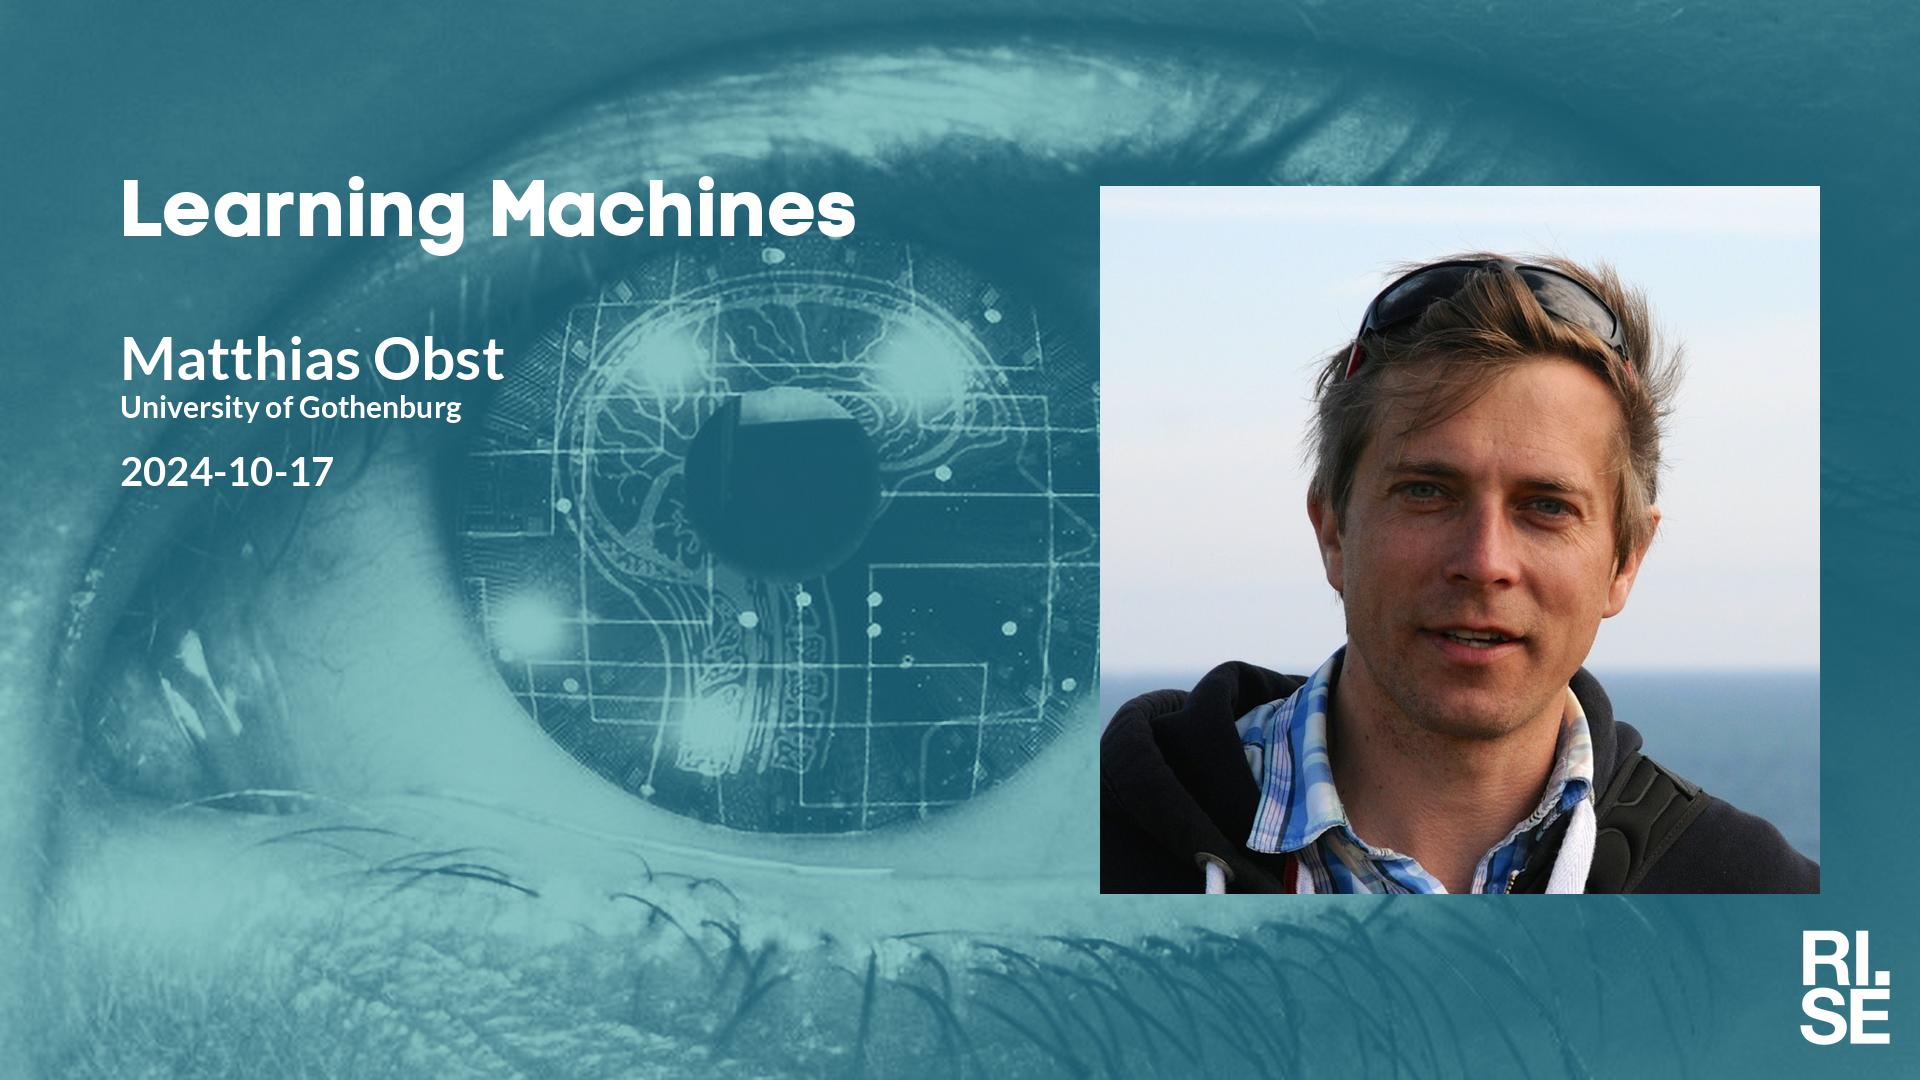
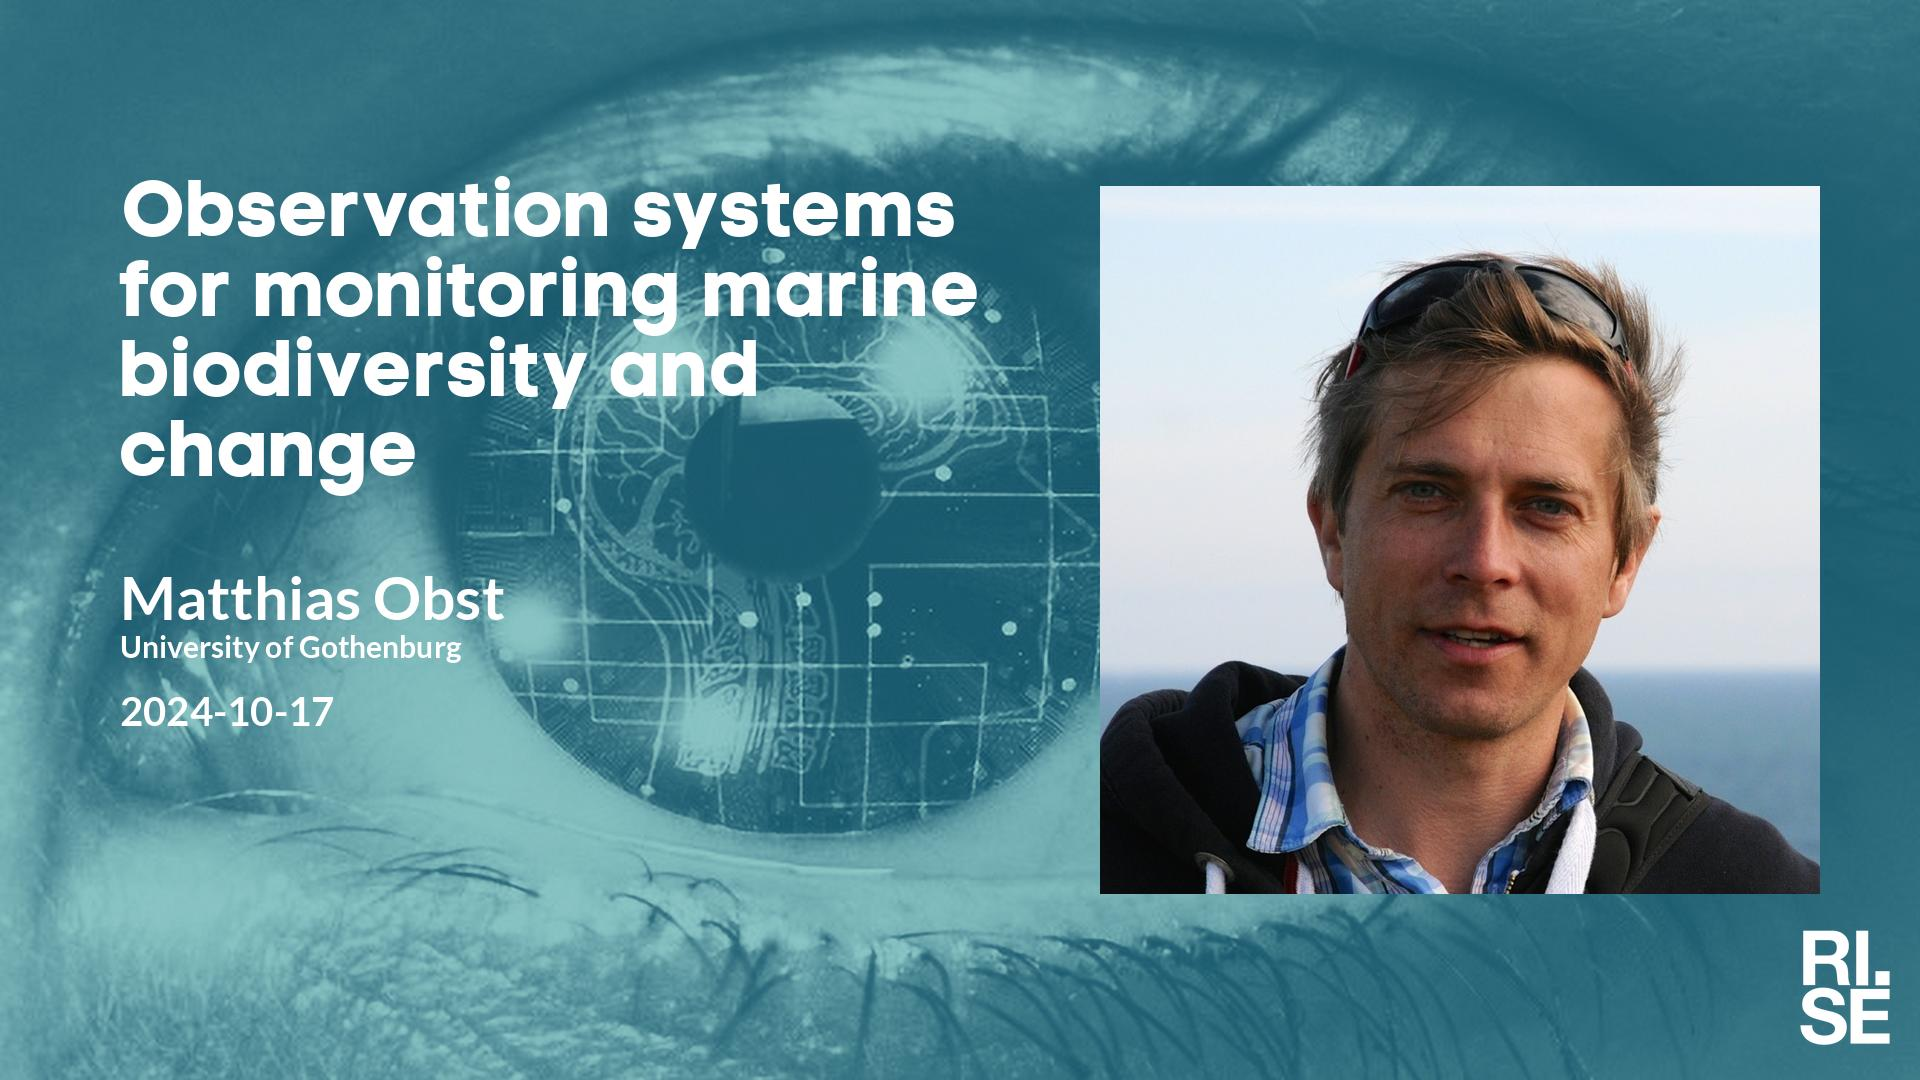
Updated plan on web site.

Changed region(s): [[0.0625, 0.1528, 0.5312, 0.4583], [0.0625, 0.5194, 0.2812, 0.6111], [0.0625, 0.6417, 0.1875, 0.6722]]

diff --git a/lm/index.md b/lm/index.md
@@ -5,16 +5,15 @@ metatags: "<meta name=\"robots\" content=\"noindex,nofollow\" />"
 <style type="text/css" scoped>
 td, th {border: 1px solid #ccc; padding: 0.6em;}
 table {border-collapse: collapse;}
-</style># Learning Machines Plan 2024-10-01
+</style># Learning Machines Plan 2024-10-04
 
 | date | speaker                                   | photo | shareable | meeting backdrop | youtube thumbnail | <a title="Speaker, Title, Abstract, Bio, Photo. Strikethrough means we don't have it yet.">comment</a>        |
 | ---- | ----------------------------------------- | ----- | ----- | ----- | ----- | -------------- |
-| <span style="color:red"> 2024-09-12 </span> | <span style="color:red"> CANCELLED </span> | <span style="color:red">  </span> | <span style="color:red">  </span> | <span style="color:red">  </span> | <span style="color:red">  </span> | <span style="color:red"> CANCELLED </span> |
 |  2024-09-19  |  [Mélisande Teng, MILA and Universite de Montreal](2024-09-19.md)  |  [photo](photo-melisande-teng.jpg)  |  [social media ](social-media-melisande-teng.jpg)  |  [meeting backdrop ](meeting-backdrop-melisande-teng.jpg)  |  [youtube thumbnail ](youtube-thumbnail-melisande-teng.jpg)  |  STABP  |
 |  2024-09-26  |  [Charlie Fieseler, University of Vienna](2024-09-26.md)  |  [photo](photo-charlie-fieseler.jpg)  |  [social media ](social-media-charlie-fieseler.jpg)  |  [meeting backdrop ](meeting-backdrop-charlie-fieseler.jpg)  |  [youtube thumbnail ](youtube-thumbnail-charlie-fieseler.jpg)  |  STABP  |
 |  2024-10-03  |  [Jakob Ambsdorf, University of Copenhagen & Pioneer Centre for AI](2024-10-03.md)  |  [photo](photo-jakob-ambsdorf.jpg)  |  [social media ](social-media-jakob-ambsdorf.jpg)  |  [meeting backdrop ](meeting-backdrop-jakob-ambsdorf.jpg)  |  [youtube thumbnail ](youtube-thumbnail-jakob-ambsdorf.jpg)  |  STABP  |
 | <span style="color:red"> 2024-10-10 </span> | <span style="color:red"> CANCELLED </span> | <span style="color:red">  </span> | <span style="color:red">  </span> | <span style="color:red">  </span> | <span style="color:red">  </span> | <span style="color:red"> CANCELLED </span> |
-|  2024-10-17  |  [Matthias Obst, University of Gothenburg](2024-10-17.md)  |  [photo](photo-matthias-obst.jpg)  |  [social media ](social-media-matthias-obst.jpg)  |  [meeting backdrop ](meeting-backdrop-matthias-obst.jpg)  |  [youtube thumbnail ](youtube-thumbnail-matthias-obst.jpg)  |  S~~TAB~~P  |
+|  2024-10-17  |  [Matthias Obst, University of Gothenburg](2024-10-17.md)  |  [photo](photo-matthias-obst.jpg)  |  [social media ](social-media-matthias-obst.jpg)  |  [meeting backdrop ](meeting-backdrop-matthias-obst.jpg)  |  [youtube thumbnail ](youtube-thumbnail-matthias-obst.jpg)  |  ST~~AB~~P  |
 |  2024-10-24  |  [Ankit Kariryaa, University of Copenhagen](2024-10-24.md)  |    |  [social media ](social-media-ankit-kariryaa.jpg)  |  [meeting backdrop ](meeting-backdrop-ankit-kariryaa.jpg)  |  [youtube thumbnail ](youtube-thumbnail-ankit-kariryaa.jpg)  |  S~~TABP~~  |
 | <span style="color:red"> 2024-10-31 </span> | <span style="color:red"> Höstlov </span> | <span style="color:red">  </span> | <span style="color:red">  </span> | <span style="color:red">  </span> | <span style="color:red">  </span> | <span style="color:red"> CANCELLED </span> |
 |  2024-11-07  |  [Joel Oskarsson, Linköping University](2024-11-07.md)  |    |  [social media ](social-media-joel-oskarsson.jpg)  |  [meeting backdrop ](meeting-backdrop-joel-oskarsson.jpg)  |  [youtube thumbnail ](youtube-thumbnail-joel-oskarsson.jpg)  |  S~~TABP~~  |

diff --git a/lm/2024-10-17.md b/lm/2024-10-17.md
@@ -4,7 +4,7 @@ metatags: "<meta name=\"robots\" content=\"noindex,nofollow\" />"
 ---
 Welcome to this week's Learning Machines seminar.
 
-**Title:** N/A
+**Title:** Observation systems for monitoring marine biodiversity and change
 
 **Speaker:** Matthias Obst, University of Gothenburg
 
@@ -17,6 +17,10 @@ Welcome to this week's Learning Machines seminar.
 **Date:** 2024-10-17 15:00
 
 **Zoom link:** [https://rise.zoom.us/j/208117140](https://rise.zoom.us/j/208117140)
+
+
+This seminar will have an in-person presence at RISE office in Gothenburg located at [Lindholmsallén 10](https://maps.app.goo.gl/wt4QAqnbSHF8i7Fu5), third floor. Make sure that you arrive in good time and ring the bell at the door.
+
 
 **Upcoming seminars:**
 
